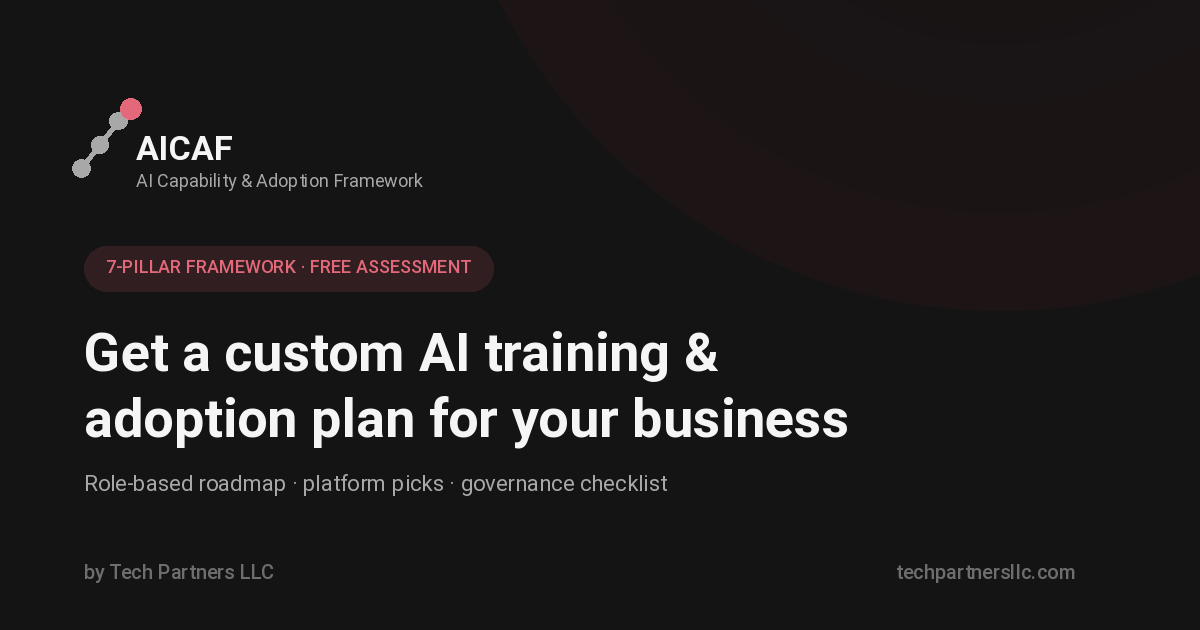
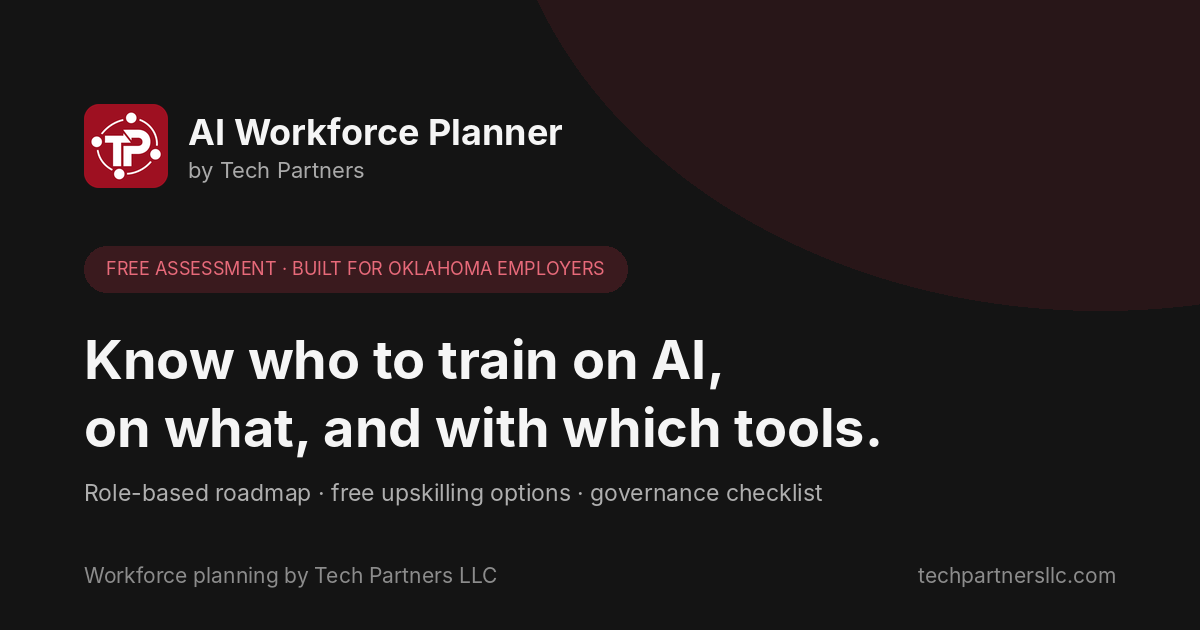
October 2026: rename to AI Workforce Planner, refresh training resources, add free & Oklahoma upskilling section
- Re-rank training per level so free, certificate-bearing options show first (report shows top 3)
- Add Anthropic Academy, OpenAI Academy AI Leadership and agentic courses, Verizon AI Skills for America, Google AI Professional Certificate
- Fix Anthropic course costs (free), move Claude Code to Builder level
- New report section: free and Oklahoma upskilling programs from the Career Pathways Guide
- Rename AICAF to AI Workforce Planner; closing pitch points to workforce planning
- New share image; version 2026.10

Claude-Session: https://claude.ai/code/session_01T6Q8kbyB9pXVBab3UNG2gK

diff --git a/data.js b/data.js
@@ -5,7 +5,7 @@
    citation appendix and every inline "resource" link.
    ========================================================================== */
 
-const AICAF_VERSION = '2026.07';
+const AICAF_VERSION = '2026.10';
 
 /* ---------------- Pillar 1: Organization Profile ---------------- */
 
@@ -178,38 +178,50 @@ const CAPABILITY_LEVELS = [
 ];
 
 const TRAINING_RESOURCES = {
+  // Order matters: the report shows the first three per level. Free, certificate-bearing options lead.
   1: [
-    { name: 'OpenAI Academy — AI Foundations', provider: 'OpenAI', cost: 'Free', duration: '60–75 min', url: 'https://help.openai.com/en/articles/20001270-openai-academy-courses' },
+    { name: 'AI Fluency: Framework & Foundations', provider: 'Anthropic Academy', cost: 'Free · certificate', duration: 'Self-paced', url: 'https://anthropic.skilljar.com/' },
+    { name: 'AI Foundations', provider: 'OpenAI Academy', cost: 'Free', duration: '60–75 min', url: 'https://help.openai.com/en/articles/20001270-openai-academy-courses' },
     { name: 'AI Fluency learning path', provider: 'Microsoft Learn', cost: 'Free', duration: '7 modules', url: 'https://learn.microsoft.com/en-us/training/paths/ai-fluency/' },
-    { name: 'Google AI Essentials', provider: 'Coursera', cost: '$49/mo subscription', duration: '< 10 hrs', url: 'https://www.coursera.org/learn/google-ai-essentials' },
-    { name: 'How to Use Generative AI: Building an AI-First Mindset', provider: 'LinkedIn Learning', cost: 'Subscription', duration: '48 min', url: 'https://www.linkedin.com/learning/how-to-use-generative-ai-building-an-ai-first-mindset' },
+    { name: 'AI Skills for America', provider: 'Verizon (with Google, IBM, Microsoft, Anthropic, OpenAI)', cost: 'Free · U.S. adults', duration: '200+ self-paced courses', url: 'https://www.verizon.com/about/responsibility/human-prosperity/workforce-development/ai-learning' },
+    { name: 'Google AI Essentials', provider: 'Google via Coursera', cost: '$49/mo subscription', duration: '< 10 hrs', url: 'https://www.coursera.org/learn/google-ai-essentials' },
   ],
   2: [
     { name: 'Applied AI Foundations', provider: 'OpenAI Academy', cost: 'Free', duration: '75–90 min', url: 'https://help.openai.com/en/articles/20001270-openai-academy-courses' },
-    { name: 'Google Prompting Essentials', provider: 'Coursera', cost: '$49/mo subscription', duration: '< 10 hrs', url: 'https://www.coursera.org/learn/google-prompting-essentials' },
+    { name: 'Claude 101', provider: 'Anthropic Academy', cost: 'Free · certificate', duration: 'Self-paced', url: 'https://anthropic.skilljar.com/' },
+    { name: 'Google Prompting Essentials', provider: 'Google via Coursera', cost: '$49/mo subscription', duration: '< 10 hrs', url: 'https://www.coursera.org/learn/google-prompting-essentials' },
     { name: 'Generative AI for Everyone', provider: 'DeepLearning.AI (Andrew Ng) via Coursera', cost: 'Subscription', duration: '~3 weeks', url: 'https://www.coursera.org/learn/generative-ai-for-everyone' },
     { name: 'Build Your Generative AI Productivity Skills with Microsoft and LinkedIn', provider: 'LinkedIn Learning', cost: 'Subscription', duration: '5 hrs', url: 'https://www.linkedin.com/learning/paths/build-your-generative-ai-productivity-skills-with-microsoft-and-linkedin' },
   ],
   3: [
-    { name: 'Get started with Microsoft 365 Copilot', provider: 'Microsoft Learn', cost: 'Free', duration: '3 modules', url: 'https://learn.microsoft.com/en-us/training/paths/get-started-with-microsoft-365-copilot/' },
+    { name: 'Google AI Professional Certificate', provider: 'Google via Coursera', cost: '$49/mo · free via Oklahoma libraries', duration: '8 courses, ~13 hrs', url: 'https://www.coursera.org/professional-certificates/google-ai' },
     { name: 'Agents and Workflows', provider: 'OpenAI Academy', cost: 'Free', duration: '75–90 min', url: 'https://help.openai.com/en/articles/20001270-openai-academy-courses' },
-    { name: 'Google AI Professional Certificate', provider: 'Coursera', cost: '$49/mo subscription', duration: '7 courses', url: 'https://www.coursera.org/professional-certificates/google-ai' },
-    { name: 'Claude Code in Action', provider: 'Anthropic Academy (Skilljar)', cost: 'n.a.', duration: 'Self-paced', url: 'https://anthropic.skilljar.com/' },
+    { name: 'Get started with Microsoft 365 Copilot', provider: 'Microsoft Learn', cost: 'Free', duration: '3 modules', url: 'https://learn.microsoft.com/en-us/training/paths/get-started-with-microsoft-365-copilot/' },
   ],
   4: [
-    { name: 'AI+HI Specialty Credential', provider: 'SHRM', cost: 'n.a.', duration: 'Labs + capstone', url: 'https://www.shrm.org/credentials/specialty-credentials/ai-hi-specialty-credential' },
-    { name: 'Building an AI-Enabled Workforce (seminar)', provider: 'SHRM', cost: 'n.a.', duration: '6 PDCs', url: 'https://www.shrm.org/events-education/education/seminars/strategy-leadership/building-an-ai-enabled-workforce' },
+    { name: 'AI Leadership', provider: 'OpenAI Academy', cost: 'Free', duration: '~3 hrs', url: 'https://help.openai.com/en/articles/20001270-openai-academy-courses' },
+    { name: 'AI+HI Specialty Credential', provider: 'SHRM', cost: 'Paid · see SHRM', duration: '3 labs + capstone', url: 'https://www.shrm.org/credentials/specialty-credentials/ai-hi-specialty-credential' },
     { name: 'AI for Business Leaders', provider: 'University of Maryland via Coursera', cost: 'Subscription', duration: '6 modules', url: 'https://www.coursera.org/learn/ai-for-business-leaders' },
-    { name: 'AI Strategy for Business Leaders', provider: 'Packt via Coursera', cost: 'Subscription', duration: '12 modules', url: 'https://www.coursera.org/learn/packt-ai-strategy-for-business-leaders-with-chatgpt-ml-dl-uel66' },
+    { name: 'Building an AI-Enabled Workforce (seminar)', provider: 'SHRM', cost: 'Paid · see SHRM', duration: '6 PDCs', url: 'https://www.shrm.org/events-education/education/seminars/strategy-leadership/building-an-ai-enabled-workforce' },
   ],
   5: [
-    { name: 'Agentic AI', provider: 'DeepLearning.AI (Andrew Ng)', cost: '$25–30/mo (Pro)', duration: '9h 55m', url: 'https://www.deeplearning.ai/courses/agentic-ai/' },
+    { name: 'Agentic AI', provider: 'DeepLearning.AI (Andrew Ng)', cost: 'Free to audit · $25–30/mo for certificate', duration: '9h 55m', url: 'https://www.deeplearning.ai/courses/agentic-ai/' },
+    { name: 'Design and Build Agentic Systems', provider: 'OpenAI Academy', cost: 'Free', duration: '110 min', url: 'https://help.openai.com/en/articles/20001270-openai-academy-courses' },
+    { name: 'Claude Code in Action · Building with the Claude API · Intro to MCP', provider: 'Anthropic Academy', cost: 'Free · certificates', duration: 'Self-paced', url: 'https://anthropic.skilljar.com/' },
     { name: 'Develop AI agents on Azure', provider: 'Microsoft Learn', cost: 'Free', duration: '9 modules', url: 'https://learn.microsoft.com/en-us/training/paths/develop-ai-agents-azure/' },
     { name: 'GitHub Copilot Certification (GH-300)', provider: 'Microsoft Learn / GitHub', cost: 'Proctored exam fee', duration: 'Exam', url: 'https://learn.microsoft.com/en-us/credentials/certifications/github-copilot/' },
-    { name: 'Building with the Claude API', provider: 'Anthropic Academy (Skilljar)', cost: 'n.a.', duration: 'Self-paced', url: 'https://anthropic.skilljar.com/' },
-    { name: 'Introduction to Model Context Protocol', provider: 'Anthropic Academy (Skilljar)', cost: 'n.a.', duration: 'Self-paced', url: 'https://anthropic.skilljar.com/' },
   ],
 };
+
+/* Free and Oklahoma upskilling programs — shown in every report beneath the roadmap.
+   Source: Oklahoma Career Pathways Guide (kept in sync monthly). */
+const UPSKILLING_PROGRAMS = [
+  { name: 'Google AI courses free through Oklahoma libraries', provider: 'Grow with Google · Oklahoma Dept. of Libraries', cost: 'Free with library card', note: 'Free Coursera access to Google Career Certificates, including the Google AI Professional Certificate.', url: 'https://oklahoma.gov/libraries/digital-resources/grow-google.html' },
+  { name: 'TCC Skills Lab: Artificial Intelligence and Data Analytics tracks', provider: 'Tulsa Community College', cost: 'Free', note: 'Residency and Sprint tracks, plus an 8-week work-based option that pays a $1,000 stipend.', url: 'https://skillslab.tulsacc.edu/programs' },
+  { name: 'UpskillOK AI microcredentials', provider: 'Oklahoma State Regents for Higher Education', cost: 'Varies by program', note: 'Stackable, statewide credentials, including AI for office staff (OSU-Tulsa) and prompt engineering for managers (NSU).', url: 'https://upskillok.org/microcredentials/' },
+  { name: 'Greenwood Cyber + AI Lab', provider: 'Microsoft · Black Tech Street (Tulsa)', cost: 'Free', note: 'Public AI-fluency and workforce workshops in Tulsa.', url: 'https://www.prnewswire.com/news-releases/microsoft-and-black-tech-street-launch-greenwood-cyber--ai-lab-in-tulsa-302779672.html' },
+  { name: 'AI Skills for America', provider: 'Verizon', cost: 'Free · U.S. adults', note: '200+ beginner-to-advanced courses with shareable certificates; good for employees and job seekers alike.', url: 'https://www.verizon.com/about/responsibility/human-prosperity/workforce-development/ai-learning' },
+];
 
 /* ---------------- Pillar 5: AI Platform Alignment (by scenario) ---------------- */
 

diff --git a/index.html b/index.html
@@ -3,21 +3,21 @@
 <head>
 <meta charset="UTF-8" />
 <meta name="viewport" content="width=device-width, initial-scale=1.0" />
-<title>AICAF — AI Capability &amp; Adoption Framework | Tech Partners LLC</title>
-<meta name="description" content="Answer a few questions about your organization and get a custom AI training, tooling, and governance plan — built on the AI Capability &amp; Adoption Framework (AICAF) by Tech Partners LLC." />
+<title>AI Workforce Planner | Tech Partners LLC</title>
+<meta name="description" content="Answer a few questions about your organization and get a custom AI training, tooling, and governance plan — built by Tech Partners LLC, an Oklahoma workforce planning and recruiting firm." />
 <link rel="canonical" href="https://techpartnersllc.github.io/aicaf/" />
 
 <!-- Open Graph / social preview -->
 <meta property="og:type" content="website" />
 <meta property="og:site_name" content="Tech Partners LLC" />
-<meta property="og:title" content="AICAF — Get a custom AI training &amp; adoption plan for your business" />
+<meta property="og:title" content="AI Workforce Planner — Get a custom AI training &amp; adoption plan for your business" />
 <meta property="og:description" content="Answer a handful of questions and get a role-by-role AI training roadmap, platform picks, and a governance checklist — with sources for every recommendation. Free, no account needed." />
 <meta property="og:image" content="https://techpartnersllc.github.io/aicaf/assets/og-image.png" />
 <meta property="og:image:width" content="1200" />
 <meta property="og:image:height" content="630" />
 <meta property="og:url" content="https://techpartnersllc.github.io/aicaf/" />
 <meta name="twitter:card" content="summary_large_image" />
-<meta name="twitter:title" content="AICAF — Get a custom AI training &amp; adoption plan for your business" />
+<meta name="twitter:title" content="AI Workforce Planner — Get a custom AI training &amp; adoption plan for your business" />
 <meta name="twitter:description" content="A free, role-based AI capability assessment with a source-cited training roadmap, tool picks, and governance checklist." />
 <meta name="twitter:image" content="https://techpartnersllc.github.io/aicaf/assets/og-image.png" />
 <!--
@@ -53,7 +53,7 @@
 
 <header class="topbar no-print">
   <div class="container container--wide topbar__inner">
-    <a class="brand" href="#" id="logo-home" aria-label="AICAF home">
+    <a class="brand" href="#" id="logo-home" aria-label="AI Workforce Planner home">
       <svg class="brand__mark" viewBox="0 0 40 40" fill="none" aria-hidden="true">
         <line x1="7" y1="31" x2="17" y2="23" stroke="currentColor" stroke-width="2.2" stroke-linecap="round"/>
         <line x1="17" y1="23" x2="27" y2="15" stroke="currentColor" stroke-width="2.2" stroke-linecap="round"/>
@@ -64,8 +64,8 @@
         <circle class="brand-accent" cx="35.5" cy="8" r="4" fill="currentColor"/>
       </svg>
       <span class="brand__text">
-        <span class="brand__name">AICAF</span>
-        <span class="brand__tag">AI Capability &amp; Adoption Framework</span>
+        <span class="brand__name">AI Workforce Planner</span>
+        <span class="brand__tag">Who to train, on what, and with which tools</span>
       </span>
     </a>
     <div class="topbar__actions">
@@ -220,7 +220,7 @@
           <div class="step__head">
             <span class="step__kicker">Review</span>
             <h2>Ready to generate your plan</h2>
-            <p class="step__desc">Double-check your answers, then generate your personalized AICAF report.</p>
+            <p class="step__desc">Double-check your answers, then generate your personalized AI workforce plan.</p>
           </div>
 
           <div class="review-grid" id="review-grid"></div>
@@ -285,20 +285,20 @@
 <div class="footer-cta no-print">
   <div class="container container--wide footer-cta__inner">
     <div class="footer-cta__text">
-      <h3>Built by an IT workforce consultant, not a marketing team</h3>
-      <p>I built AICAF because I kept seeing the same gap between "we should use AI" and an actual plan for who gets trained on what. If you want help walking through your results or putting the plan into action, let's talk.</p>
+      <h3>Built by a workforce planner, not a marketing team</h3>
+      <p>I built this because I kept seeing the same gap between "we should use AI" and an actual plan for who gets trained on what. Your report is the start. Turning it into hiring, training, and team decisions is the workforce planning work Tech Partners does with employers every week. If you want help putting the plan into action, let's talk.</p>
     </div>
-    <a class="btn btn-primary" href="mailto:doug.halve@techpartnersllc.com?subject=AICAF%20follow-up" id="cta-talk-btn">Let's talk</a>
+    <a class="btn btn-primary" href="mailto:doug.halve@techpartnersllc.com?subject=AI%20Workforce%20Planner%20follow-up" id="cta-talk-btn">Talk workforce planning</a>
   </div>
 </div>
 
 <footer class="site-footer no-print">
   <div class="container container--wide site-footer__inner">
-    <span>© 2026 Tech Partners LLC · AICAF: AI Capability &amp; Adoption Framework</span>
+    <span>© 2026 Tech Partners LLC · AI Workforce Planner</span>
     <span><a href="https://techpartnersllc.com" target="_blank" rel="noopener">techpartnersllc.com</a></span>
   </div>
   <div class="container container--wide site-footer__disclaimer">
-    <p>AICAF provides general guidance based on publicly available resources and is not legal, compliance, or professional advice. Verify requirements for your industry and jurisdiction (e.g. GDPR, CCPA, HIPAA, sector-specific regulation) before adopting any AI policy or tool.</p>
+    <p>AI Workforce Planner provides general guidance based on publicly available resources and is not legal, compliance, or professional advice. Verify requirements for your industry and jurisdiction (e.g. GDPR, CCPA, HIPAA, sector-specific regulation) before adopting any AI policy or tool.</p>
   </div>
 </footer>
 

diff --git a/app.js b/app.js
@@ -1,5 +1,5 @@
 /* ==========================================================================
-   AICAF — app.js
+   AI Workforce Planner (formerly AICAF) — app.js
    Wizard state, rendering, scoring engine, and report generation.
    ========================================================================== */
 
@@ -468,6 +468,9 @@
     report.roadmap.forEach((r) => r.resources.forEach((res) => {
       if (!seen.has(res.url)) { seen.add(res.url); trainingSources.push(res); }
     }));
+    UPSKILLING_PROGRAMS.forEach((u) => {
+      if (!seen.has(u.url)) { seen.add(u.url); trainingSources.push(u); }
+    });
     report.platforms.forEach((p) => p.tools.forEach((t) => {
       if (!seen.has(t.url)) { seen.add(t.url); platformSources.push(t); }
     }));
@@ -479,8 +482,8 @@
       <div class="report-header">
         <div class="report-header__top">
           <div>
-            <h1>Your AI Capability &amp; Adoption Plan</h1>
-            <span class="report-header__date">Generated ${dateStr} · AICAF v${AICAF_VERSION} · Tech Partners LLC</span>
+            <h1>Your AI Workforce Plan</h1>
+            <span class="report-header__date">Generated ${dateStr} · AI Workforce Planner v${AICAF_VERSION} · Tech Partners LLC</span>
           </div>
           <span class="badge badge--primary">Maturity Level ${report.maturity.id} — ${report.maturity.name}</span>
         </div>
@@ -567,6 +570,11 @@
             </div>`
             )
             .join('')}
+        </div>
+        <div class="upskill-block">
+          <h3>Free &amp; Oklahoma upskilling options</h3>
+          <p class="upskill-block__intro">Low- and no-cost programs your people can start this month, many with credentials they keep.</p>
+          ${UPSKILLING_PROGRAMS.map((u) => `<a class="resource-link" href="${u.url}" target="_blank" rel="noopener">${u.name}<span class="resource-link__meta">${u.provider} · ${u.cost}</span><span class="resource-link__meta">${u.note}</span></a>`).join('')}
         </div>
       </section>
 
@@ -726,7 +734,7 @@
       return;
     }
     trackEvent('lead_captured', { has_org: Boolean(state.lead.org) });
-    const subject = `AICAF plan request — ${state.lead.org || state.lead.name || 'New lead'}`;
+    const subject = `AI Workforce Planner request — ${state.lead.org || state.lead.name || 'New lead'}`;
     const bodyLines = [
       `Name: ${state.lead.name || 'n/a'}`,
       `Organization: ${state.lead.org || 'n/a'}`,
@@ -739,7 +747,7 @@
       `Top priorities: ${state.priorities.map((p) => label(PRIORITIES, p)).join(', ')}`,
       `Top persona: ${report.personaRanking[0].name}`,
       '',
-      'Requesting a follow-up on my AICAF plan generated at this tool.',
+      'Requesting a follow-up on my AI workforce plan generated with the AI Workforce Planner.',
     ];
     const mailto = `mailto:doug.halve@techpartnersllc.com?subject=${encodeURIComponent(subject)}&body=${encodeURIComponent(bodyLines.join('\n'))}`;
     window.location.href = mailto;
@@ -779,7 +787,7 @@
     document.body.classList.add('pdf-mode');
     const opt = {
       margin: 0.4,
-      filename: 'AICAF-AI-Training-Plan.pdf',
+      filename: 'AI-Workforce-Plan-Tech-Partners.pdf',
       image: { type: 'jpeg', quality: 0.98 },
       html2canvas: { scale: 2, useCORS: true },
       jsPDF: { unit: 'in', format: 'letter', orientation: 'portrait' },

diff --git a/style.css b/style.css
@@ -1,5 +1,5 @@
 /* ============================================================
-   AICAF — AI Capability & Adoption Framework
+   AI Workforce Planner (formerly AICAF)
    Tech Partners LLC
    ============================================================ */
 
@@ -1449,3 +1449,11 @@ footer.site-footer {
 .html2pdf__overlay {
   pointer-events: none !important;
 }
+
+/* Free & Oklahoma upskilling block (added 2026.10) */
+.upskill-block{margin-top:28px;padding:20px 22px;border:1px solid rgba(0,0,0,.08);border-radius:10px;background:rgba(0,0,0,.02)}
+.upskill-block h3{margin:0 0 4px}
+.upskill-block__intro{margin:0 0 12px;opacity:.75}
+.upskill-block .resource-link{display:block;margin-bottom:10px}
+.upskill-block .resource-link__meta{display:block;text-decoration:none}
+.upskill-block .resource-link{text-decoration:none}
